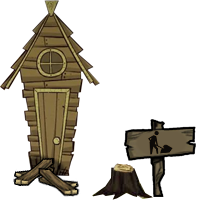
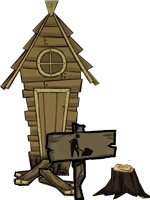
rotation fixed
Only need to move entrance points

diff --git a/src/hu/elte/madtycoon/core/World.java b/src/hu/elte/madtycoon/core/World.java
@@ -4,6 +4,7 @@ import hu.elte.madtycoon.Main;
 import hu.elte.madtycoon.objects.Building;
 import hu.elte.madtycoon.objects.buildings.CoinFlip;
 import hu.elte.madtycoon.objects.buildings.Road;
+import hu.elte.madtycoon.objects.buildings.RoundAbout;
 import hu.elte.madtycoon.objects.entities.Visitor;
 import hu.elte.madtycoon.objects.Entity;
 import hu.elte.madtycoon.objects.Game;

diff --git a/src/hu/elte/madtycoon/objects/buildings/RoundAbout.java b/src/hu/elte/madtycoon/objects/buildings/RoundAbout.java
@@ -16,7 +16,7 @@ public class RoundAbout extends Game {
 
     public final static String ID = "round";
     public final static Vector2I SIZE = new Vector2I(4,4);
-    public final static Vector2I ENTRANCE = new Vector2I(0,1);
+    public final static Vector2I ENTRANCE = new Vector2I(-2,1);
     public final static int PRICE = 1000;
 
     public final static int MAX = 3;
